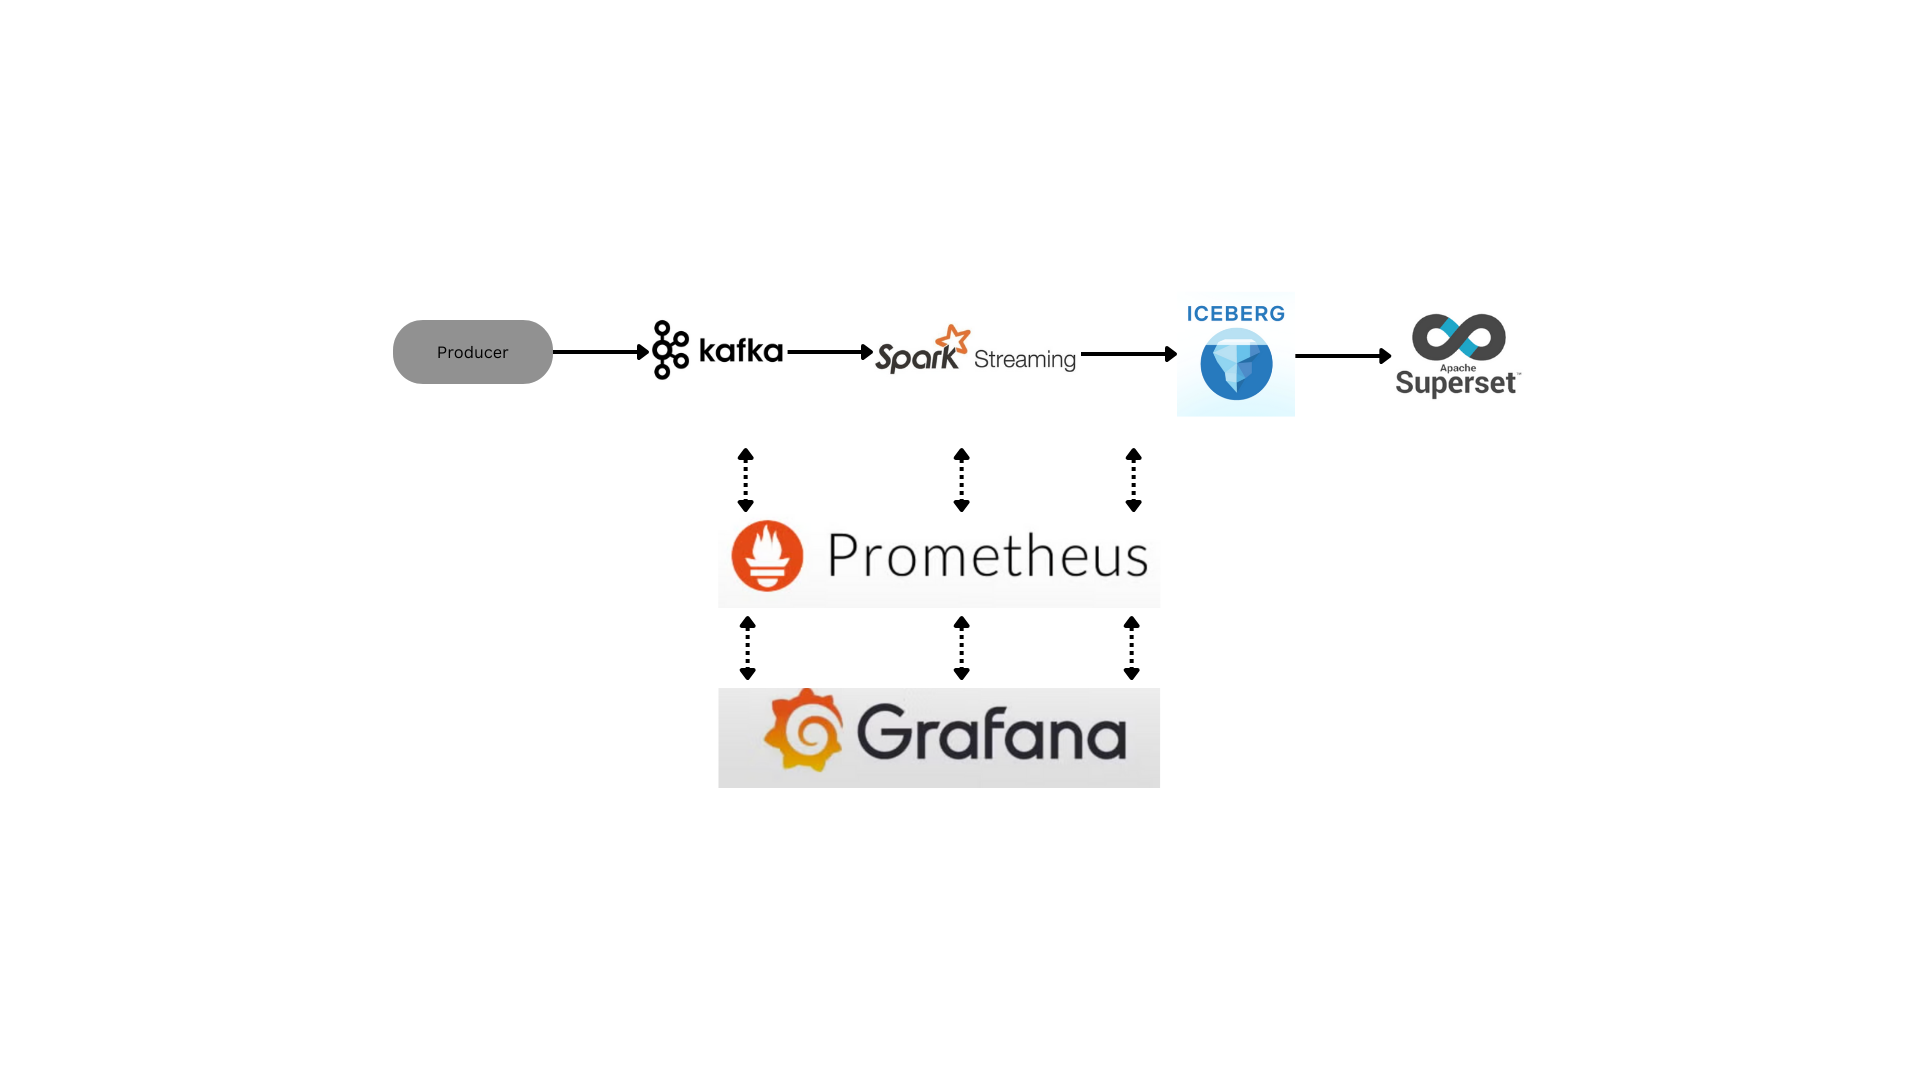
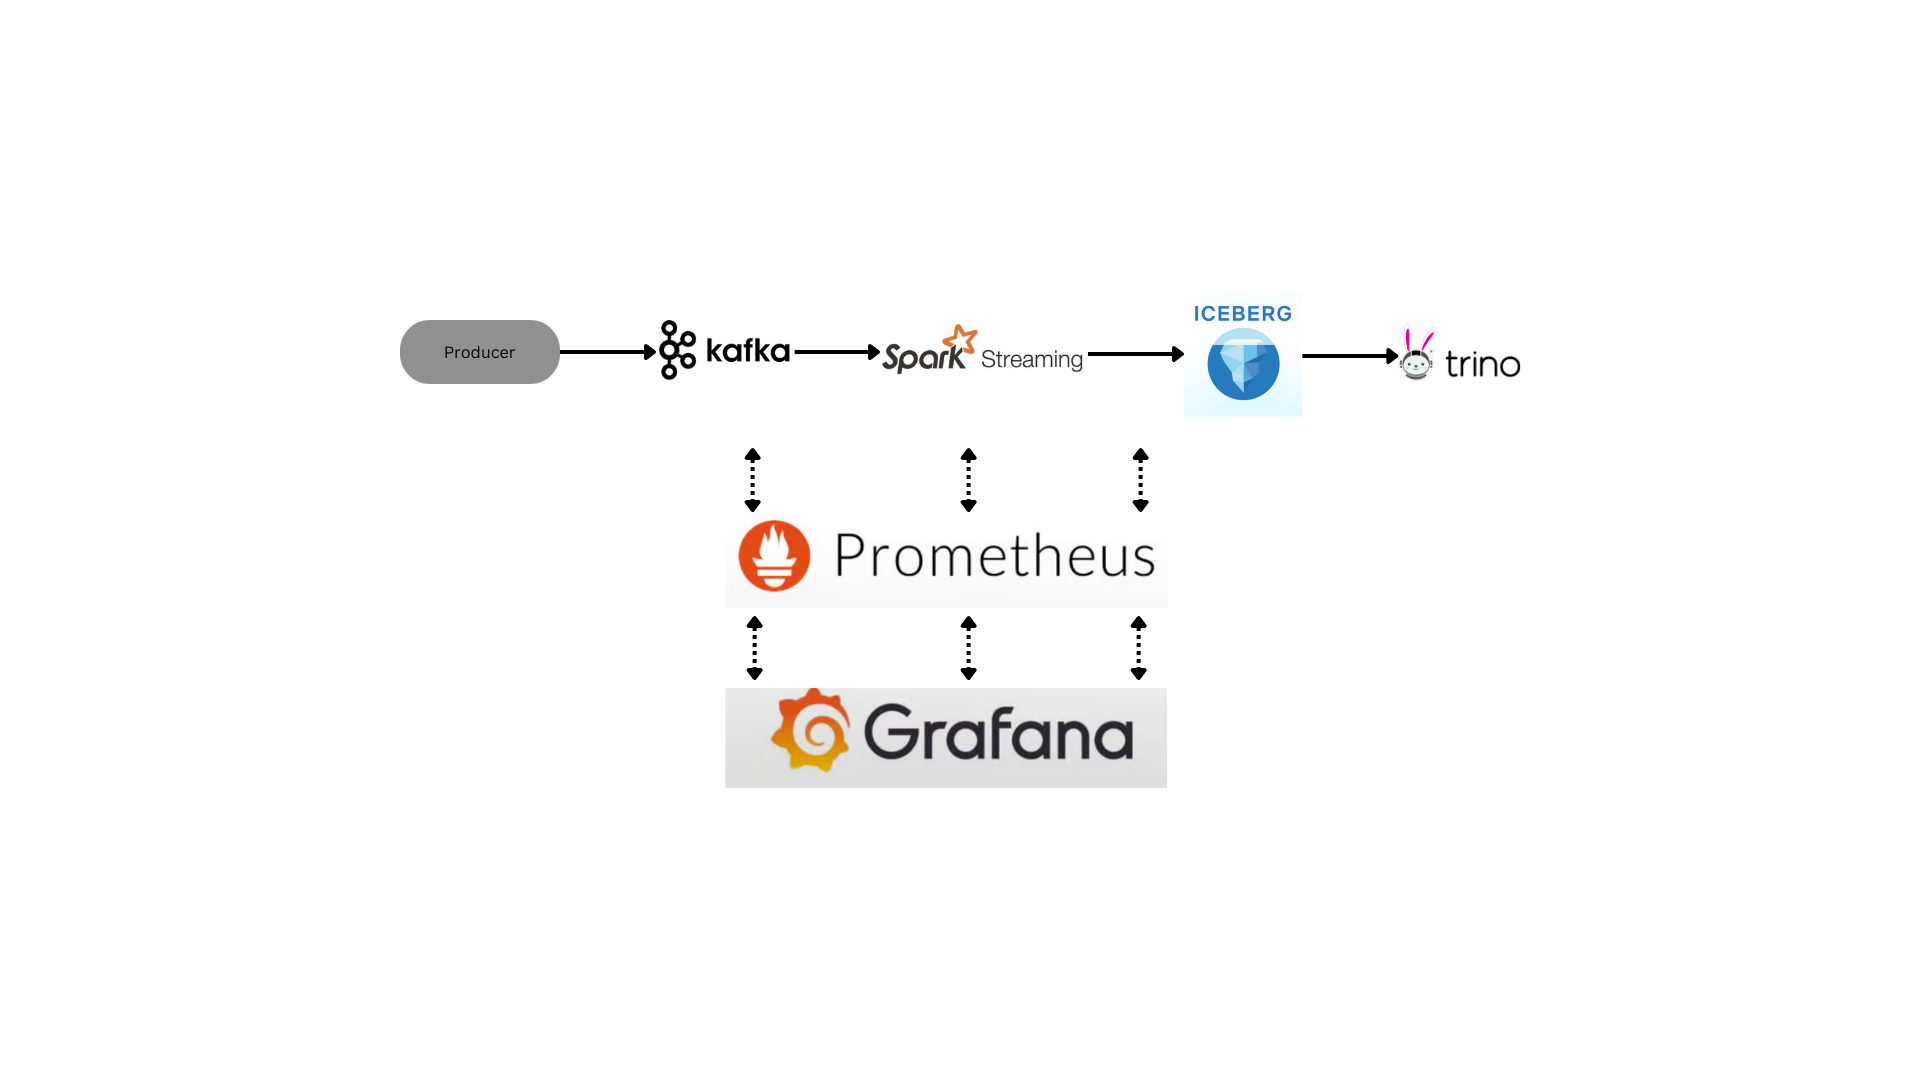
Fixes

diff --git a/README.md b/README.md
@@ -28,6 +28,5 @@ This repository is used to create an Iceberg format data lake.
 4. Make sure Docker Desktop is running and run ``docker-compose up`` from `docker-spark-iceberg/`. This will create the required containers such as spark-iceberg, nessie catalog and runs the spark streaming job. The spark job will write data to iceberg tables. More details about teh docker containers can be found in the README under this same path.
 
 ## TODO
-1. Dremio and Superset
-2. Copy source file to container on startup
-3. Kafka as a container instead of a separate service
+1. Trino Support
+2. OLAP Support(Apache Pinot)
